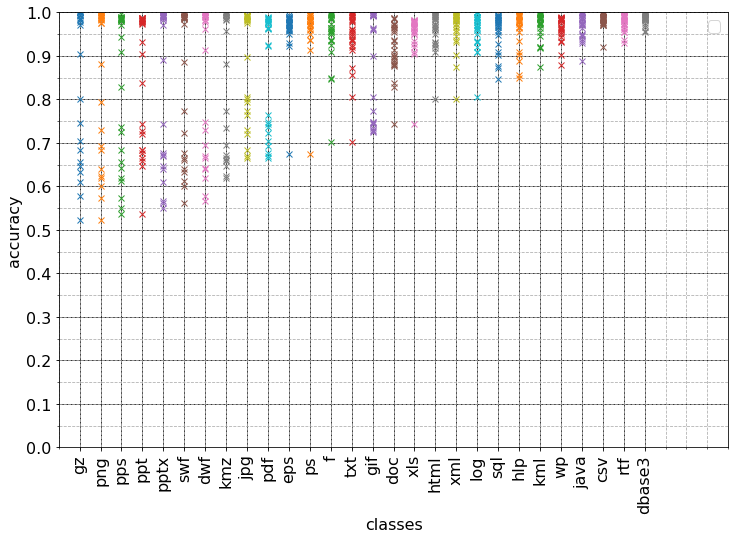
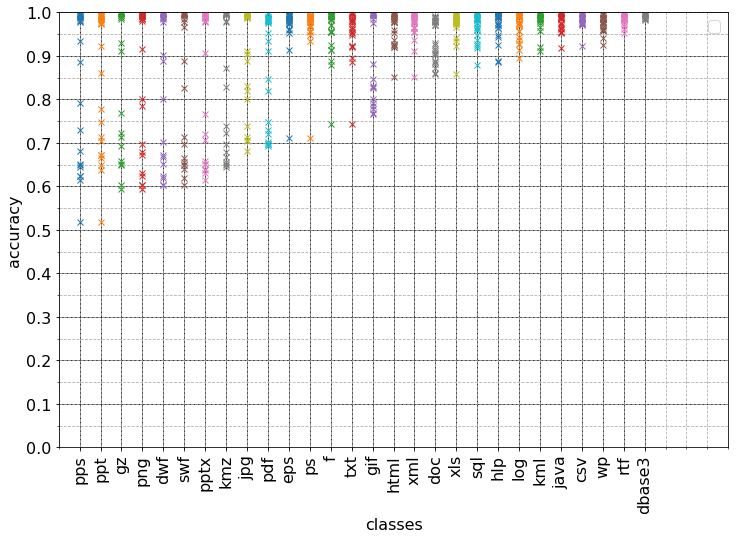
pronto?

diff --git a/content/4-method.tex b/content/4-method.tex
@@ -1,0 +1,43 @@
+% \levelB{Objective}
+In preliminary tests, it was observed that achieving accuracy values above 0.6 on file fragment classification using 28 classes was a difficult task to the considered models. In other studies results \cite{hiester_file_2018} \cite{sportiello_context-based_2012} \cite{amirani_feature-based_2013} \cite{maslim_distributed_2014} and on initial tests, the achieved accuracy for small number of classes was considerably higher. Hiester \cite{hiester_file_2018}, for instance, achieves an accuracy of 98\% using four classes.
+
+% \levelB{Dataset}
+This study uses the Govdocs1 dataset \cite{garfinkel_bringing_2009}, which was fully downloaded and its files were grouped by extension. This dataset has files with 63 different extensions. The 33 extensions with less than 200 files were discarded. The  ``text'' and ``unk'' extensions were discarded because files with these extensions use multiple formats and they do not correspond to a single file type. From the remaining 28 extensions, listed in table \ref{tab:studiesfiletypes}, 200 files of each were randomly selected, 100 to use in the training dataset and 100 to use in the validation dataset.
+
+% \input{content/tables/4.0.1-govdocs.tex}
+
+% \levelB{Sampling}
+To select a sample instance from the Govdocs1 dataset, first a random file is selected among those available, without replacement. Then, a block from this file is randomly selected. After all files have participated in the process, the process may be repeated as long as necessary. This way, all files are considered and the classes are easily balanced.
+This contrasts with the sampling technique applied in other works, where all the sectors are grouped before sampling, which may lead to an imbalance between classes.
+
+% \levelB{Inputs}
+%one-hot
+The input features of the network for each instance is a 512x256 matrix representing only one block of 512 bytes of a random file of the dataset. Each of the 512 bytes is one-hot encoded, meaning that its value is converted into a vector with 256 elements, with only one of them set to 1, corresponding to the value of the byte, while the others are set to zero. A batch size of 100 was used, with 28 steps per epoch.
+
+% \levelB{Outputs}
+The output of the network for a given instance is a vector with a size equal to the number of classes, subjected to a softmax function, which applies the exponential function on the vector and then normalizes it. Each value will represent the predicted probability that the instance belongs to a specific class. The class for a block sample is the file extension of the original file.
+
+% \levelB{Model}
+Before doing the procedures described here, 14 combinations of types of layers were compared, using convolutional, LSTM, and fully-connected layers. For each combination, some variations in parameters were also experimented with. This led to the three-layer model used in this research. The first is a convolutional layer with 256 output units, a window of size 16, and a stride of 16. The second is a LSTM layer of 128 units. The last is a fully-connected layer where the number of output units match the number of classes of the input dataset.
+
+%optimization
+All the trainings used the Adam \cite{kingma_adam:_2014}
+optimization algorithm to guide backpropagation, which was selected because it performed well in the preliminary tests without requiring fine-tuning of parameters.
+
+% Constraints
+The models were trained until no further improvement was observed in the last 10 epochs, using categorical cross entropy loss.
+
+\levelC{Accuracy vs. number of classes}
+Several independent models with the same general architecture but different weights were trained with 2 to 28 extensions from the Govdocs1 dataset. For each number in the range 2 to 28, a random subset of extensions was selected to compose the dataset. Each extension has 200 file samples, half placed in the training dataset and half in the validation dataset. Each dataset was used to train a new model, that should distinguish between the selected subset of extensions in that filtered dataset. This process was repeated five times.
+
+In addition to this sampling of extensions using different quantities of classes, all 378 combinations of pairs of extensions were compared. Each pair was used to compose a dataset and to train a new model for each one, using the same process described in the previous paragraph.
+
+Given the number of different models trained (135 for the N classes phase and 378 for the pairs), it was important to use a model architecture that had a fast training time. Models trained with the chosen architecture took about 10 minutes to train. Without this short training period, this study would not be feasible.
+
+\levelC{PCA}
+The accuracy obtained after the training of models with pairs of classes was used to build a 28x28 matrix. Here the accuracy of the model trained for that particular pair of extensions was used as a distance measure of how similar those file types are. If a model was able to achieve 100\% accuracy, the file types would be considered different, if the accuracy is 50\%, they would be considered indistinguishable, as 50\% is the average accuracy of a random guess classifier for two classes.
+
+Following this concept, the diagonal entries of the matrix were filled with the value 0.5, as each class should be indistinguishable from itself. Then, a Principal Component Analysis (PCA) \cite{amirani_new_2008} was used to treat this matrix. The 28x28 matrix can be interpreted as 28 vectors of 28 dimensions. For each class, the vector indicates how similar that class is to each of the others. This could be plotted in a space of 28 dimensions, if such representation could be built. What PCA does is to reduce the dimensionality of this space. Here the dimensions were reduced to 2, to be shown in a 2D graph. To do that, it chooses as first axis the one that maximizes the variance in data and then does the same for the second dimension. That produces a projection in which the points are as farther away as possible.
+
+While it may not be obvious how to attribute meaning to the resulting coordinate system, this technique is useful to visually group classes with similar characteristics.
+

diff --git a/content/5-discussion.tex b/content/5-discussion.tex
@@ -1,33 +1,23 @@
+
 %fig 1
-\levelB{N classes}
+\levelB{Accuracy vs. number of classes}
 
-\ref{fig:nclasses}
+In figure \ref{fig:nclasses}, a decreasing trend was observed. An increase in the number of classes appears to be  correlated with a decrease in accuracy. Another relevant aspect of the graph is that the range of the results seems to be smaller when more classes are used.  
 
-An increase in the number of classes appears to be  correlated with a decrease in accuracy. Another relevant aspect of the graph is that the range of the results seems to be smaller when more classes are used.  
+This pattern is understandable: as the number of classes grows, the harder the classification problem is, leading to a decrease in accuracy. Meanwhile, the individual contributions of each class to the overall result diminishes, leading to an increase in precision.
 
-This pattern is understandable: as the number of classes grows, the harder the classification problem is, leading to a decrease in accuracy, while the individual contributions of each class to the overall result diminishes, leading to an increase in precision.
+This behavior is an important aspect to consider during the evaluation of file fragments studies. This observation is in agreement with Beebe et al. \cite{beebe_sceadan:_2013} assumption, that studies that select fewer classes tend to yield higher results. 
 
-This behavior is an important aspect to consider during the evaluation of file fragments studies. As Beebe et al. \cite{beebe_sceadan:_2013} have mentioned, studies that select fewer classes tend to yield higher results. 
+Still, with 42\% of samples being misclassified when the number of classes is 28, the question of what are the error sources and how they can be addressed requires attention.
 
-Still, with 46\% \todo{check} of samples being misclassified when the number of classes is 28, the question of what are the error sources and how they can be addressed requires attention.
+The number of possible combinations of file types to compose the datasets depends on the number of classes being considered. For 28 classes there is only one possible combination, while for two classes there are 378. For intermediary values, the numbers are much higher, which is the number of possible combinations disregarding the order of the elements: $ \frac{28!}{(28-n)!n!}$. For 14 file types there are 40116600 combinations. For this reason, the significance of the 5 samples diminishes for intermediary values.
 
-\levelB{Pairs of classes}
+\levelB{Accuracy of pairs of classes}
 
-\ref{fig:dual}
+The accuracy of models trained with pairs of classes, shown in figure \ref{fig:dual}, suggests a reverse correlation between entropy and accuracy.  Generally, file types with higher entropy tend to have lower minima, with the GIF file type being a notable exception. Most of these files use some form of compression, like image files for example.
 
-Generally, file types with higher entropy tend to have lower minima, with the GIF \todo{check} file type being a notable exception. Most of these files use some form of compression, like image files for example. 
+It was demonstrated that the accuracy of a new model may be manipulated by the selection of file types that will compose the dataset. The lines ``hard file types first'' and ``easy file types first'' of figure \ref{fig:nclasses} were created using the order shown on figure \ref{fig:dual}, resulting in lines that seem to be close to the minimum and maximum of the possible accuracy values. 
 
 \levelB{PCA}
 
-\ref{fig:pca} and \ref{fig:pca2}
-
-Again some file types with high entropy emerge as a promising group, \todo{check} ``dwf'',
-``jpg'',
-``pps'',
-``ppt'',
-``gz'',
-``png'',
-``pptx'',
-``swf'',
-``kmz'',
-and ``pdf''.
+The usage of PCA on the 28x28 distance matrix produced a 2D projection where the file types that use compression or contains images are grouped near each other, as shown in figures \ref{fig:pca} and \ref{fig:pca2}.

diff --git a/content/4-results.tex b/content/4-results.tex
@@ -1,0 +1,54 @@
+% \levelB{Hardware}
+The experiments did not take advantage of GPU acceleration and were  conducted on a single computer with 256GB of RAM and with 2 Intel\textregistered Xeon\textregistered E5-2630 v2 processors, with 6 cores each, with 2 hyper-threads per core, or 24 hyper-threads in total. 
+
+
+% \levelB{Software}
+The main software and frameworks used to build the experiments were Python 3.6, Jupyter notebook, Tensorflow 1.14.0, Keras 2.2.4-tf, and Fedora Linux 27.
+
+% repository
+The source code for the experiments is available at \sloppy\url{http://github.com/atilaromero/carving-experiments}.
+
+\levelC{Accuracy vs. number of classes}
+
+% decrease in accuracy
+Figure \ref{fig:nclasses} shows the graph of accuracy versus number of classes.  Each of those points is a model trained with the indicated number of classes. The class for a block sample is the file extension of the original file. The classes/extensions used to train each model were take at random. The bottom line indicates, for comparison, what the accuracy would be for a random guessing classifier. The points for 2 classes use transparency to improve visualisation, as many of them are too close. For 2 classes, the accuracy values are between 0.5 and 1.0, with a greater concentration near 1.0. For 28 classes, the accuracy values are between 0.55 and 0.58.
+
+% It is important to notice that, for most cases, the five models plotted for each column is a very small subset of all possible combinations for that number of classes. 
+
+The lines ``hard file types first'' and ``easy file types first'' were created by selecting the file types that would compose the dataset. The selection was based on the results described in the next subsection, ``Accuracy of pairs of classes'', ordering the file types by their minimum accuracy values and following this order to choose file types. For example, the ``hard file types first'' point for three classes was obtained by training a model with the file types ``pps'', ``ppt'', and ``gz'', the three classes with lower minima in figure \ref{fig:dual}.
+
+\noindent
+\begin{figure*}[htb!]
+\centering\includegraphics[width=0.8\textwidth]{content/nclasses.png}
+\caption{\label{fig:nclasses}Validation accuracy by number of classes}%
+\end{figure*}
+
+\levelC{Accuracy of pairs of classes}
+
+Figure \ref{fig:dual} shows the graph of the accuracy of each class when compared individually with each one of the others, resulting in 378 models, one for each possible pair of classes. File types where all the points are close to 1.0 are hardly mistaken for other types, while file types presenting accuracy values close to 0.5 can be mistaken for other file types by the model.
+
+\noindent
+\begin{figure*}[htb!]
+\centering\includegraphics[width=0.8\textwidth]{content/dual.png}
+\caption{\label{fig:dual}Validation accuracy of models trained with pair of classes}%
+\end{figure*}
+
+\levelC{PCA}
+
+A 28x28 matrix was made using the accuracy of the models built for each pair of classes as a distance measure. A PCA dimensionality reduction technique was used to plot this data in a 2D graph, grouping similar file types. The result is shown in figures \ref{fig:pca} and \ref{fig:pca2}. Similar file types are next to each other, while those that can be easily distinguished by the models are represented by points that are distant from each other.
+
+\noindent
+\begin{figure*}[htb!]
+\centering\includegraphics[width=0.8\textwidth]{content/pca.png}
+\caption{\label{fig:pca}PCA of accuracy of models trained with pair of classes}%
+\end{figure*}
+
+
+\noindent
+\begin{figure*}[htb!]
+\centering\includegraphics[width=0.8\textwidth]{content/pca2.png}
+\caption{\label{fig:pca2}PCA of accuracy of models trained with pair of classes - lower right detail}%
+\end{figure*}
+
+% the problem of unseen file types
+% \levelC{Limitations and threats to validity}

diff --git a/content/1.1a-whatisdatacarving.tex b/content/1.1a-whatisdatacarving.tex
@@ -1,13 +1,17 @@
-%from pep 1, paragrafo 1
-In a forensic context, file recovery is a frequent task that can be motivated by several situations, like physical media malfunction, intentional attempt to hide data, and the need to access deleted or older versions of files. When the filesystem no longer provides the physical location of a file on the media, data carving is often the only procedure capable of retrieving this content.
+In file fragment classification, the objective is to identify to which file type a piece of data belongs. It is a relevant task in file recovery, and researches in this subject did not provided a solution that could substitute the software used in practice, still manually coded. Since some of those tools support hundreds of file types, a machine learning solution that could learn the patterns from examples instead of relying on specifications should be beneficial.
 
-%from pep 1, paragrafo 2
-Data carving is a forensic process that attempts to recover files without previous information of where the file starts or ends \cite{garfinkel_carving_2007}.
-To accomplish this, a program has to analyze a source of raw data, searching for patterns indicating a known file type and making attempts to locate and reconstruct each of its constituent parts.
 
-%from pep 1, paragrafo 2b
-That process commonly disregards the filesystem \cite{veenman_statistical_2007}, being able to recover deleted files from unallocated areas, but faces the problem of fragmentation \cite{veenman_statistical_2007}  \cite{pal_evolution_2009}: in many cases, files are not written sequentially on disk and deleted files may have missing parts.
 
-This procedure is frequently used in forensic environments, but it may also be beneficial in other areas, such as reverse engineering, network traffic analysis, and data mining.
+% %from pep 1, paragrafo 1
+% In a forensic context, file recovery is a frequent task that can be motivated by several situations, like physical media malfunction, intentional attempt to hide data, and the need to access deleted or older versions of files. When the filesystem no longer provides the physical location of a file on the media, data carving is often the only procedure capable of retrieving this content.
 
-This observation is related to the fact that many types of data sources contain embedded files. Therefore, they may be used as input to a data carving process. This includes network traffic, memory dumps, hard drive images, and files containing other files.
+% %from pep 1, paragrafo 2
+% Data carving is a forensic process that attempts to recover files without previous information of where the file starts or ends \cite{garfinkel_carving_2007}.
+% To accomplish this, a program has to analyze a source of raw data, searching for patterns indicating a known file type and making attempts to locate and reconstruct each of its constituent parts.
+
+% %from pep 1, paragrafo 2b
+% That process commonly disregards the filesystem \cite{veenman_statistical_2007}, being able to recover deleted files from unallocated areas, but faces the problem of fragmentation \cite{veenman_statistical_2007}  \cite{pal_evolution_2009}: in many cases, files are not written sequentially on disk and deleted files may have missing parts.
+
+This type of file recovery, called file carving or data carving, is frequently used in forensic environments, but it is also used in other areas, such as reverse engineering, network traffic analysis, and data mining.
+
+% This observation is related to the fact that many types of data sources contain embedded files. Therefore, they may be used as input to a data carving process. This includes network traffic, memory dumps, hard drive images, and files containing other files.

diff --git a/content/0-abstract.tex b/content/0-abstract.tex
@@ -1,13 +1,6 @@
 \begin{abstract}
-% explorations
-% - lstm on data carving
-% - automatization of new data carving parsers
-% - pratical solution
-%from pep 1, paragrafo 7 e pep abstract, paragrafo1
-High entropy data, frequently found on images, video, and compressed files, may be misinterpreted as random data.
-This research explores how far the presence of high entropy data can explain classification errors at the file fragment classification task. The research is divided into three parts. In the first, the accuracy of some types of neural networks is compared, classifying file fragments taken from the Govdocs1 dataset\cite{garfinkel_bringing_2009}, using their file extensions as class labels. Then, the influence of the number of classes on the accuracy of the resulting models is briefly explored. Finally, an experiment is devised to measure, for a given neural network architecture, the number of fragments that have recognizable structures for each file type. The conclusion is that, for the model used, which classifies fragments of 28 file types, misinterpretation of high entropy data as random data can only account for an error in accuracy of 16.5\%. Since the total error in accuracy is 46\% \todo{revise later} for 28 classes, this leaves 29.5\% of samples misclassified by other reasons. This suggests that, for future researches on file fragment classification, the seek for a procedure to automatically label inner data structures of files may be a promising course of action.
+The studies on file fragment classification use different sets of file types to compose their datasets. This raises the question of how this difference impacted the results, and if these results are comparable.
+This study started with the verification of a previous observation that the number of file types in the dataset influence the accuracy of the resulting models. While a trend in this direction exists, the simple count of file types was found to be less influential than the specific choice of file types: some file types when included in the experiment have a much higher negative impact than others.
 
-
-% This work explores the use of neural networks to perform data carving, comparing some artificial neural network architectures. The considered networks were trained without special hardware in short periods of time using limited datasets. It is expected that neural networks can be used to automate the construction of data carving solutions, allowing forensic examiners to collaboratively build models for several file types.
 \textbf{Keywords:} computer forensics, data carving, machine learning, neural networks, long short-term memory, convolutional layers, file fragment classification, high entropy data
 \end{abstract}

diff --git a/content/1.2-proposal.tex b/content/1.2-proposal.tex
@@ -1,7 +1,7 @@
 \subsection{Research question}
 % This work compares the use of Multilayer Perceptrons (MLP), Convolutional Neural Networks (CNN) and Long Short-Term Memory (LSTM), and combinations of those types of networks, to perform file fragment classification, which is the first step of the data carving process, identification, answering the following initial questions:
 
-The study of Beebee et al. \cite{beebe_sceadan:_2013} is one of the best works on file fragment classification: it emphasized the problem of multiple data types in a file type, achieved high accuracy using a large amount of file types, made their source code available, suggested hierarchical classification as a way to improve scalability, suggested that misclassification analysis should play a prominent role in classification research, endorsed that high entropy file types tend to have a lower classification accuracy, and briefly mentions that the number of classes should be taken in consideration when comparing accuracy of different studies.
+The study of Beebee et al. \cite{beebe_sceadan:_2013} is one of the best works on file fragment classification: it emphasized the problem of multiple data types in a file type, achieved high accuracy using a large amount of file types, made their source code available, suggested hierarchical classification as a way to improve scalability, suggested that misclassification analysis should play a prominent role in classification research, endorsed that high entropy file types tend to have a lower classification accuracy, and briefly mentioned that the number of classes should be taken in consideration when comparing accuracy of different studies.
 
 This research addresses specifically the last item in the list, the influence of number of classes in accuracy, but the two previous items, misclassification analysis and high entropy, are also part of the discussion. Although is intuitive that a higher number of classes should have an influence on the results of a file fragment classifier, the issue, considering the carving problem perspective, wasn't formally studied yet. Thus, the following initial question is proposed:
 
@@ -9,7 +9,7 @@ This research addresses specifically the last item in the list, the influence of
 \begin{enumerate}[itemindent=\parindent,label=\textbf{Q\arabic*.}]
 
 % Then, the influence of the number of classes on the accuracy of the resulting models is briefly explored.
-    \item How does the accuracy of neural network models change relative to the number of classes?
+    \item How does the accuracy of neural network models trained to classify file fragments change relative to the number of classes?
 
 \end{enumerate}
 

diff --git a/content/6-conclusion.tex b/content/6-conclusion.tex
@@ -1,1 +1,9 @@
-It was observed that high accuracy in the file fragment classification task could be achieved only when the number of classes was small. Also, when compared with each other, file types with high entropy data showed the lowest accuracy values.
+It was observed that an increase in the number of extensions selected to compose the training had the tendency to decrease accuracy and increase precision. But the number of classes alone is not as important as the type of extension selected: some file types when included in the experiment have a much higher negative impact than others. This observation was demonstrated in the ``hard file types first'' and ``easy file types first'' of figure \ref{fig:nclasses}, where the file types selected to compose  where intentionally chosen, once to degrade results and once to improve them.
+
+File types that contains images or that use compression were identified as those that have the higher negative effect on results, which suggests that their entropy may contribute to the error.
+
+\levelB{Limitations, threats to validity and future work}
+
+The number of samples taken was small when compared with the number of all possible file types combinations. This imposes a limit on the conclusions that can be reached and this limitation is hard to overcome.
+
+The group that emerged as file types that most degrade results are files that use compression or contain images. While they are known for their high entropy, no measure of entropy was used to reinforce this claim. A study is in progress to measure the impact of entropy on file fragment classification errors.

diff --git a/content/2.1b-resultados-outros-trabalhos.tex b/content/2.1b-resultados-outros-trabalhos.tex
@@ -1,6 +1,6 @@
 This related work summary focuses on studies on file fragment classification that used the Govdocs1 dataset\cite{garfinkel_bringing_2009}.
 
-The early studies on data carving used private datasets, making it difficult to compare the results of different studies. In 2009, Garfinkel et al. \cite{garfinkel_bringing_2009} published the Govdocs1 dataset with 1 million files (a small amount of those files were removed later, for legal caution). While some of the later works on the field still use private datasets, the Govdocs1 dataset has become the most used choice in studies related to data carving.
+The early studies on data carving used private datasets, making it difficult to compare the results of different studies. In 2009, Garfinkel et al. \cite{garfinkel_bringing_2009} published the Govdocs1 dataset with 1 million files (a small amount of those files were removed later, for legal reasons). While some of the later works on the field still used private datasets, the Govdocs1 dataset has become the most used choice in studies related to data carving.
 
 Depending on the objective, the focus of each study may either be whole file classification or file fragment classification. Whole file classification is generally an easier task because most file types, even those with high entropy and low compression rates, have well-structured headers, with easily recognizable patterns.
 

diff --git a/content/0-sections.tex b/content/0-sections.tex
@@ -32,8 +32,8 @@
     % \input{content/2.2-datacarvingtools.tex}
     % \levelB{Data carving challenges}
     % \input{content/2.3-challenges.tex}
-    \levelB{Neural networks researches in data carving}
-    \input{content/2.4-nn.tex}
+    % \levelB{Neural networks researches in data carving}
+    % \input{content/2.4-nn.tex}
 
 %2
 % \levelA{\label{chap:background}Some artificial neural networks}
@@ -52,20 +52,19 @@
 
 %4
 \levelA{\label{chap:experiments}Proposed method}
-\input{content/4-experiments.tex}
-% \input{content/4.0.1-researchonmodels.tex}
 
-\levelA{Results}
+\input{content/4-0.tex}
+
+\levelB{Method}
+\input{content/4-method.tex}
+
+\levelB{Results}
 \label{sec:numberofclasses}
-\input{content/4.0.2-researchonnumberofclasses.tex}
-% \input{content/4.0.3-experimentrandomdata.tex}
+\input{content/4-results.tex}
 
 %5
 \levelA{\label{chap:discussion}Discussion}
 \input{content/5-discussion.tex}
-
-    \levelB{Future work}
-    \input{content/5.1-futurework.tex}
 
 \levelA{\label{chap:conclusion}Conclusion}
 \input{content/6-conclusion.tex}

diff --git a/article.tex b/article.tex
@@ -51,7 +51,7 @@
 \newcommand{\levelC}{\subsubsection}
 
 \author{Atila L. Romero\textsuperscript{$\dagger$}, Avelino F. Zorzo\textsuperscript{$\dagger$}{\let\thefootnote\relax\footnote{{\textsuperscript{$\dagger$}e-mails: \texttt{atilaromero@gmail.com, avelino.zorzo@pucrs.br}}}}}
-\title{Descriptive research on influence of number of classes in file fragment classification}
+\title{How the choice of file types influence results in file fragment classification}
 \date{}
 
 \begin{document}

diff --git a/content/4-0.tex b/content/4-0.tex
@@ -1,0 +1,1 @@
+This study describes how does the accuracy of neural network models change relative to the number of classes in the dataset.
